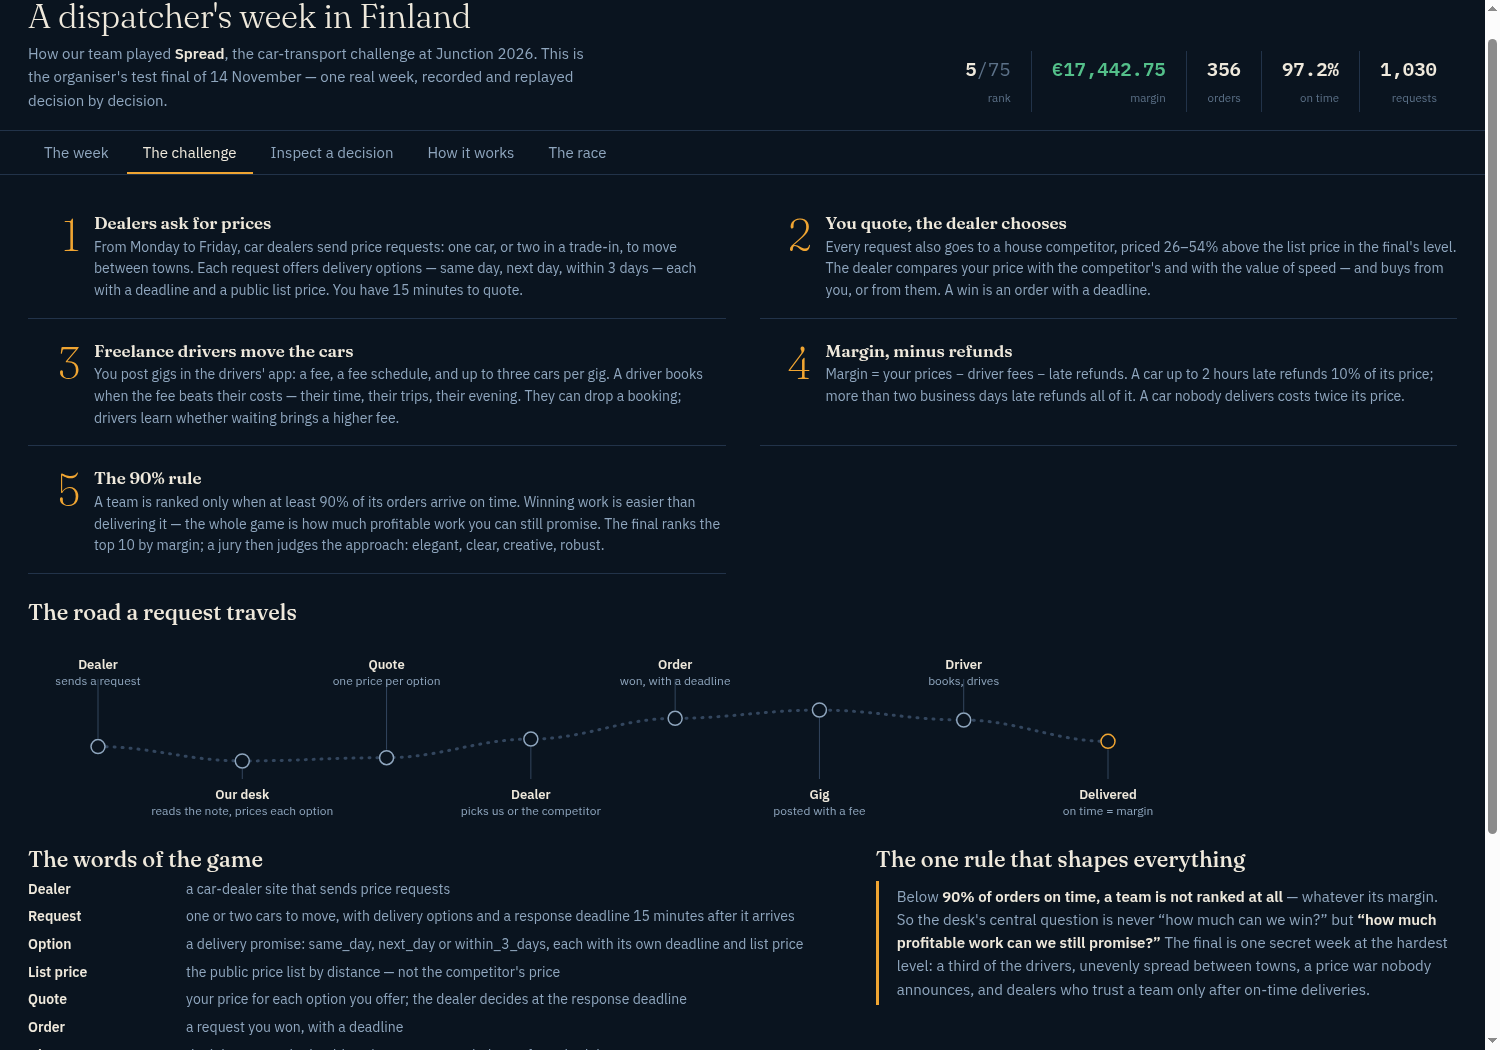
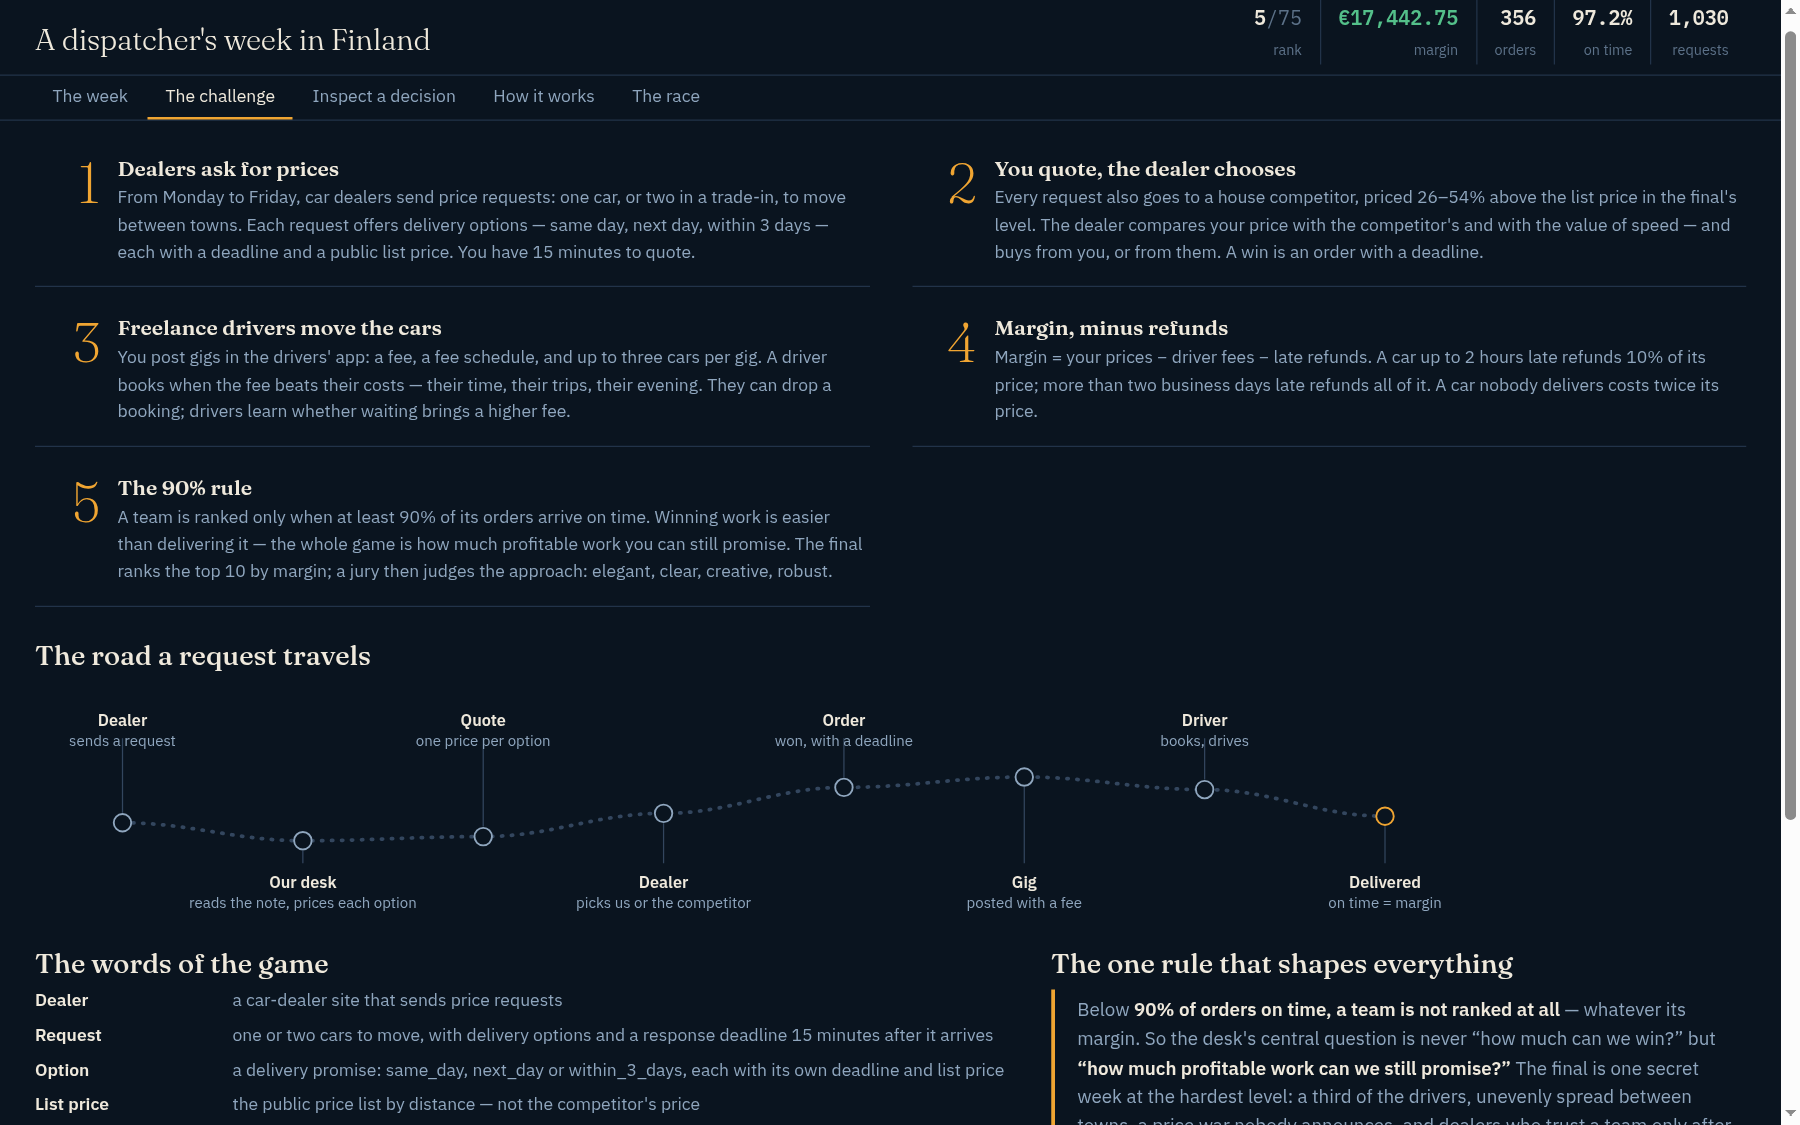
Demo polish: map fills the panel (viewport-height map, compact header on short viewports, timeline on screen at 1280x800); opens framed on southern/central Finland with Fit for the whole country; ranked label collision handling with halo; guided tour pans/zooms to each moment and highlights its lane

diff --git a/demo/demo.js b/demo/demo.js
@@ -104,8 +104,17 @@ function makeProjection() {
   const LAT0 = 59.6, LAT1 = 70.4, LON0 = 20.3, LON1 = 31.9;
   const kmLat = 111, kmLon = 111 * Math.cos(65 * Math.PI / 180);
   const W = (LON1 - LON0) * kmLon, H = (LAT1 - LAT0) * kmLat;
-  return { f: (lat, lon) => [(lon - LON0) * kmLon, (LAT1 - lat) * kmLat], W, H };
+  return {
+    f: (lat, lon) => [(lon - LON0) * kmLon, (LAT1 - lat) * kmLat],
+    // the map view (viewBox) for a lat/lon box: [south lat, north lat, west lon, east lon]
+    box: (lat0, lat1, lon0, lon1) => ({
+      x: (lon0 - LON0) * kmLon, y: (LAT1 - lat1) * kmLat,
+      w: (lon1 - lon0) * kmLon, h: (lat1 - lat0) * kmLat }),
+    W, H,
+  };
 }
+// the opening view: southern and central Finland, where the week's work is; Fit shows all
+function defaultView() { return proj.box(59.7, 66.4, 21.2, 30.6); }
 function ll(id) { const q = MAP.places.find((x) => x.id === id); return [q.lat, q.lon]; }
 
 const MINOR = new Set(["espoo", "vantaa", "raisio", "lempaala", "porvoo", "salo", "rauma", "hyvinkaa", "kouvola", "ylivieska"]);
@@ -120,7 +129,7 @@ const week = {
 
 function buildWeek() {
   proj = makeProjection();
-  week.view = { x: 0, y: 0, w: proj.W, h: proj.H };
+  week.view = defaultView();
   week.reqByAt = WEEK.requests.map((r) => [r.at, r]).sort((a, b) => a[0] - b[0]);
   week.wonByAt = WEEK.won.slice().sort((a, b) => a[0] - b[0]);
   week.lostByAt = WEEK.lost.slice().sort((a, b) => a[0] - b[0]);
@@ -165,6 +174,7 @@ function buildWeek() {
   week.feedAt = feed.map((e) => [e.at]);
   week.eventMinutes = [...new Set(feed.map((e) => e.at))];
   drawMapBase();
+  applyView();
   buildTimeline();
   wireControls();
   setTime(OPEN_MIN);
@@ -212,22 +222,41 @@ function drawMapBase() {
 }
 
 function layoutTowns() {
-  // towns and labels, sized to stay readable at any zoom; minor labels only when zoomed in
+  // towns and labels, sized to stay readable at any zoom; a label that would overlap a
+  // higher-ranked label at this zoom is hidden, so the busy south stays legible
   const g = week.townG;
   g.textContent = "";
-  const zoomed = week.view.w < proj.W * 0.55;
-  MAP.places.forEach((p) => {
+  const svg = $("#map");
+  const s = Math.min(svg.clientWidth / week.view.w, svg.clientHeight / week.view.h);
+  const ox = (svg.clientWidth - week.view.w * s) / 2, oy = (svg.clientHeight - week.view.h * s) / 2;
+  const sx = (mx) => ox + (mx - week.view.x) * s, sy = (my) => oy + (my - week.view.y) * s;
+  const shown = [];
+  const order = MAP.places.slice().sort((a, b) => townRank(b.id) - townRank(a.id));
+  for (const p of order) {
     const [x, y] = proj.f(p.lat, p.lon);
     const minor = MINOR.has(p.id);
-    if (minor && !zoomed) {
-      g.appendChild(svgEl("circle", { cx: x, cy: y, r: u(minor ? 3.5 : 4.5), fill: "#7D97C2" }));
-      return;
-    }
-    g.appendChild(svgEl("circle", { cx: x, cy: y, r: u(minor ? 4 : 5.5), fill: "#93AECB" }));
-    const t = svgEl("text", { x: x + u(9), y: y + u(4), "font-size": u(minor ? 12 : 14), class: minor ? "" : "major" });
+    g.appendChild(svgEl("circle", { cx: x, cy: y, r: u(minor ? 3.5 : 4.5), fill: minor ? "#7D97C2" : "#93AECB" }));
+    const fs = minor ? 12 : 14;
+    const lx = sx(x) + 9, ly = sy(y) - fs * 0.32;
+    const lw = p.name.length * fs * 0.56 + 3, lh = fs;
+    const rect = { x: lx - 2, y: ly - lh * 0.8, w: lw + 4, h: lh + 3 };
+    if (shown.some((r) => rect.x < r.x + r.w && r.x < rect.x + rect.w && rect.y < r.y + r.h && r.y < rect.y + rect.h))
+      continue;   // a bigger or busier town's label is already there
+    shown.push(rect);
+    const t = svgEl("text", { x: x + u(9), y: y + u(4.5), "font-size": u(fs), class: minor ? "" : "major",
+      stroke: "rgba(7,14,24,.85)", "stroke-width": u(3), "paint-order": "stroke" });
     t.textContent = p.name;
     g.appendChild(t);
-  });
+  }
+}
+function townRank(id) {
+  if (!week.townReq) {
+    week.townReq = {};
+    WEEK.requests.forEach((r) => { week.townReq[r.p] = (week.townReq[r.p] || 0) + 1; week.townReq[r.d] = (week.townReq[r.d] || 0) + 1; });
+  }
+  const BIG = { helsinki: 400, tampere: 260, turku: 240, oulu: 220, jyvaskyla: 180, kuopio: 180,
+                rovaniemi: 170, lahti: 170, pori: 160, vaasa: 160, joensuu: 160 };
+  return (BIG[id] || 0) + (MINOR.has(id) ? 0 : 60) + (week.townReq[id] || 0);
 }
 
 function applyView() {
@@ -329,9 +358,10 @@ function renderWeek() {
     g.markers.appendChild(c);
   });
   if (week.hl && Date.now() < week.hl.until) {
-    g.routes.appendChild(svgEl("polyline", { points: week.hl.pts.map((p) => p.join(",")).join(" "),
-      fill: "none", stroke: "#F0A532", "stroke-width": 2.5, "stroke-dasharray": "2 6",
-      "stroke-linecap": "round", "vector-effect": "non-scaling-stroke" }));
+    for (const pts of week.hl.polys)
+      g.routes.appendChild(svgEl("polyline", { points: pts.map((p) => p.join(",")).join(" "),
+        fill: "none", stroke: "#F0A532", "stroke-width": 2.5, "stroke-dasharray": "2 6",
+        "stroke-linecap": "round", "vector-effect": "non-scaling-stroke" }));
   } else week.hl = null;
 
   const k = bisect(week.ledgerCum, t);
@@ -372,6 +402,35 @@ function feedLine(e) {
   return "";
 }
 
+function lanePts(rid) {
+  const r = WEEK.reqMap[rid];
+  const move = WEEK.moves.find((m) => m.rid === rid);
+  return move ? week.seg.get(WEEK.moves.indexOf(move)).pts : [proj.f(...ll(r.p)), proj.f(...ll(r.d))];
+}
+// the map view that frames a request's lane, with room around it
+function laneView(rids) {
+  let lat0 = 90, lat1 = 0, lon0 = 90, lon1 = 0;
+  rids.forEach((rid) => {
+    const r = WEEK.reqMap[rid];
+    [[r.p], [r.d]].flat().forEach((id) => {
+      const p = MAP.places.find((q) => q.id === id);
+      lat0 = Math.min(lat0, p.lat); lat1 = Math.max(lat1, p.lat);
+      lon0 = Math.min(lon0, p.lon); lon1 = Math.max(lon1, p.lon);
+    });
+  });
+  const pad = Math.max(0.45, (lat1 - lat0) * 0.25, (lon1 - lon0) * 0.25);
+  lat0 -= pad; lat1 += pad; lon0 -= pad; lon1 += pad;
+  // keep the frame from becoming a thin sliver on nearly north-south lanes
+  const kmLat = 111, kmLon = 111 * Math.cos(65 * Math.PI / 180);
+  const hKm = (lat1 - lat0) * kmLat, wKm = (lon1 - lon0) * kmLon;
+  if (wKm < hKm * 0.45) {
+    const lonMid = (lon0 + lon1) / 2, half = hKm * 0.45 / 2 / kmLon;
+    lon0 = lonMid - half; lon1 = lonMid + half;
+  }
+  return proj.box(lat0, lat1, lon0, lon1);
+}
+function flyTo(view) { week.view = { ...view }; applyView(); }
+
 function openRequest(rid) {
   showTab("decision");
   selectRequest(rid);
@@ -380,9 +439,7 @@ function showOnMap(rid) {
   const r = WEEK.reqMap[rid];
   showTab("week");
   setTime(r.at);
-  const move = WEEK.moves.find((m) => m.rid === rid);
-  const pts = move ? week.seg.get(WEEK.moves.indexOf(move)).pts : [proj.f(...ll(r.p)), proj.f(...ll(r.d))];
-  week.hl = { pts, until: Date.now() + 12000 };
+  week.hl = { polys: [lanePts(rid)], until: Date.now() + 12000 };
   renderWeek();
 }
 
@@ -543,22 +600,24 @@ function startTour() {
     .sort((a, b) => (b.de - WEEK.deadline[b.rid]) - (a.de - WEEK.deadline[a.rid]))[0];
   const lateMin = Math.round((lateMove.de - WEEK.deadline[lateMove.rid]) / 60);
   const first = WEEK.requests[0];
+  const firstRid = WEEK.won[0][1];
+  const bundleRids = WEEK.gigOrders[bundle[1]];
   tour.steps = [
-    { t: 510, title: "Monday, 08:30",
+    { t: 510, title: "Monday, 08:30", view: defaultView(),
       text: "The desk is open. From 09:00 dealers across Finland will start asking for prices; every amber ring is a request that gives us fifteen minutes to quote." },
-    { t: first.at, title: `The first request, ${first.id}`,
+    { t: first.at, title: `The first request, ${first.id}`, view: laneView([first.id]), hl: [first.id],
       text: `${nameOf[first.p]} to ${nameOf[first.d]}, ${DEC[first.id].km} km. We quoted ${Object.entries(DEC[first.id].quote).map(([k, v]) => `${fmtEur(v)} for ${k.replace(/_/g, " ")}`).join(" and ")} — and lost it to the competitor. A loss teaches the quoter's level to step down.` },
-    { t: WEEK.won[0][0], title: `The first win, ${WEEK.won[0][1]}`,
-      text: `At ${fmtEur(DEC[WEEK.won[0][1]].won.price)} the dealer chose us. The gig opens at what the cost model expects the car to cost, and a driver books within minutes — watch the blue car leave ${nameOf[WEEK.reqMap[WEEK.won[0][1]].p]}.` },
-    { t: bundle[0], title: "A bundle",
-      text: `${WEEK.gigOrders[bundle[1]].join(" and ")} share one gig: when two or three cars fit a route, they travel together at 0.85 of the sum of their fees — one trip for the driver, less paid by us.` },
-    { t: 2880, title: "Wednesday: the price war",
+    { t: WEEK.won[0][0], title: `The first win, ${firstRid}`, view: laneView([firstRid]), hl: [firstRid],
+      text: `At ${fmtEur(DEC[firstRid].won.price)} the dealer chose us. The gig opens at what the cost model expects the car to cost, and a driver books within minutes — watch the blue car leave ${nameOf[WEEK.reqMap[firstRid].p]}.` },
+    { t: bundle[0], title: "A bundle", view: laneView(bundleRids), hl: bundleRids,
+      text: `${bundleRids.join(" and ")} share one gig: when two or three cars fit a route, they travel together at 0.85 of the sum of their fees — one trip for the driver, less paid by us.` },
+    { t: 2880, title: "Wednesday: the price war", view: defaultView(),
       text: "Nobody announces it, but today the competitor quotes 20% under its usual prices. We won 23% of Wednesday's requests, against 48% on Thursday — the quoter's level spends the day stepping down." },
-    { t: 3620, title: "Wednesday noon: the bulk order",
+    { t: 3620, title: "Wednesday noon: the bulk order", view: proj.box(59.95, 60.75, 24.15, 25.55),
       text: "A dealer group sends 30 cars from one yard in Vantaa. The intake's queue is near its limit of 35 unbooked orders, so we quote only the cars the flood screen says stay on time. We won 4 of the 30." },
-    { t: lateMove.de - 30, rid: lateMove.rid, title: `A late car, ${lateMove.rid}`,
+    { t: lateMove.de - 30, rid: lateMove.rid, title: `A late car, ${lateMove.rid}`, view: laneView([lateMove.rid]), hl: [lateMove.rid],
       text: `${lateMin} minutes late: the dealer gets part of its price back and its trust count halves. Ten of our 356 orders ran late; 97.2% arrived on time — above the 90% the ranking demands.` },
-    { t: END, title: "The end of the week",
+    { t: END, title: "The end of the week", view: defaultView(),
       text: "€17,442.75 of margin, 356 orders, 97.2% on time: 5th of 75 teams. The gap to the top was about 110 short cars — the fee floors priced them out. The fix went in the same evening; it is in the How it works tab." },
   ];
   tour.i = 0;
@@ -569,6 +628,9 @@ function startTour() {
 function showTourStep() {
   const s = tour.steps[tour.i];
   setTime(s.t);
+  if (s.view) flyTo(s.view);
+  week.hl = s.hl ? { polys: s.hl.map(lanePts), until: Infinity } : null;
+  renderWeek();
   $("#tourTitle").textContent = `${s.title}`;
   $("#tourText").textContent = s.text;
   $("#tourStep").textContent = `${tour.i + 1} / ${tour.steps.length}`;
@@ -584,7 +646,12 @@ function showTourStep() {
     $(".tourctrl").insertBefore(b, $("#tourStep"));
   }
 }
-function endTour() { $("#tourbox").hidden = true; }
+function endTour() {
+  $("#tourbox").hidden = true;
+  week.hl = null;
+  flyTo(defaultView());
+  renderWeek();
+}
 
 function wireTour() {
   $("#tourNext").addEventListener("click", () => {

diff --git a/demo/style.css b/demo/style.css
@@ -28,7 +28,7 @@
 }
 
 :root {
-  --map-h: 590px;         /* the map's height; the side rail matches it */
+  --map-h: clamp(420px, calc(100vh - 300px), 780px);  /* the map's height; the side rail matches it */
   --night: #0A141F;      /* polar night — page ground */
   --land: #142A44;       /* kartta land */
   --sea: #0C1A2C;        /* the map's water */
@@ -98,7 +98,7 @@ footer { border-top: 1px solid var(--rule); color: var(--faint); font-size: 12.5
 .weekgrid { display: grid; grid-template-columns: minmax(0, 1fr) 300px; gap: 18px; }
 .mapwrap { position: relative; margin: 0; background:
   radial-gradient(120% 90% at 50% 38%, var(--sea) 0%, var(--night) 88%);
-  border: 1px solid var(--rule); border-radius: 6px; overflow: hidden; min-height: 560px; }
+  border: 1px solid var(--rule); border-radius: 6px; overflow: hidden; }
 #map { width: 100%; height: var(--map-h); display: block; cursor: grab; }
 #map.panning { cursor: grabbing; }
 #map text { font-family: var(--sans); fill: var(--frost); user-select: none; }
@@ -112,7 +112,7 @@ footer { border-top: 1px solid var(--rule); color: var(--faint); font-size: 12.5
 .k.req { background: var(--headlight); } .k.won { background: var(--ontime); }
 .k.car { background: #7FB4E8; } .k.done { background: var(--ontime); opacity: .45; } .k.late { background: var(--late); }
 
-.hint, .tourbox { position: absolute; left: 14px; top: 14px; max-width: 400px; background: rgba(10,20,31,.94);
+.hint, .tourbox { position: absolute; left: 14px; top: 14px; max-width: 340px; background: rgba(10,20,31,.94);
   border: 1px solid var(--rule); border-left: 3px solid var(--headlight); border-radius: 4px; padding: 14px 16px; }
 .hint p, .tourbox p { margin: 4px 0; font-size: 13.5px; color: var(--frost); }
 .hint p:first-child { color: var(--birch); }
@@ -309,6 +309,21 @@ table.rej td.lose { color: var(--late); font-family: var(--mono); font-size: 12p
   .weekgrid, .decgrid, .twocol, .racecharts { grid-template-columns: 1fr; }
   .steps #steps { grid-template-columns: 1fr; }
   .part { grid-template-columns: 1fr; gap: 4px; }
-  :root { --map-h: 520px; } .mapwrap { min-height: 480px; }
+  :root { --map-h: 440px; }
   h1 { font-size: 27px; }
+}
+
+
+/* short viewports: tighten the page so a tall map and the timeline both stay on screen */
+@media (max-height: 980px) {
+  header { padding: 10px 28px 8px; }
+  h1 { font-size: 24px; }
+  .sub { display: none; }   /* a mid-word ellipsis reads as broken; the title stands alone here */
+  .manifest b { font-size: 16px; }
+  .manifest div { padding: 2px 14px; }
+  nav button { padding: 6px 14px 5px; font-size: 14px; }
+  main { padding-top: 10px; }
+  #tab-week { padding-bottom: 10px; }
+  #tab-week .note { display: none; }
+  #tline { height: 88px; }
 }

diff --git a/demo/README.md b/demo/README.md
@@ -25,6 +25,7 @@ Opening `index.html` over `file://` does not work (the page fetches its JSON, wh
 browsers block on `file://`). Tabs link directly with a hash: `#week`, `#challenge`,
 `#decision`, `#system`, `#race`; `#week@3720` opens the map at world minute 3720.
 
+The map sizes itself to the viewport, so the timeline stays on screen at 1280×800.
 The page opens on **The week** at Monday 09:30, with a dismissible hint. Keyboard,
 on the week tab: `←`/`→` step one event, `shift`+`←`/`→` one hour, `ctrl`/`alt`+`←`/`→`
 one day, `space` plays or pauses.
@@ -40,10 +41,14 @@ one day, `space` plays or pauses.
    (requests and wins), amber markers for the story moments (the Wednesday price
    war, the bulk order, each late car) — drag it, click a marker, click a day.
    **Scrubbing is first-class**: every view is a pure function of the minute, so
-   stepping, jumping and dragging backwards render the exact state. Zoom with the
-   wheel or buttons, drag to pan, **Fit** restores the country; minor town labels
-   appear as you zoom in. The **guided tour** walks eight annotated moments, from
-   the first request to the final score.
+   stepping, jumping and dragging backwards render the exact state. The map opens
+   framed on southern and central Finland, where the week's work is; **Fit** shows
+   the whole country, and the wheel or buttons zoom, drag pans. Town labels are
+   ranked (big cities, then busyness) and any label that would overlap a
+   higher-ranked one at the current zoom hides, so the busy south stays legible.
+   The **guided tour** walks eight annotated moments — each one pans and zooms the
+   map to its place and highlights the lanes it talks about — from the first
+   request to the final score.
 2. **The challenge** — the game in five steps, the road a request travels, the
    vocabulary, and the 90% rule.
 3. **Inspect a decision** — every one of the 1,030 requests, filterable (won,
@@ -123,7 +128,7 @@ and writes `demo/assets/{map,week,decisions,race,settings}.json` (~0.8 MB total)
 | `assets/race.json` | the leaderboard race, us vs the top team |
 | `assets/story.json` | hand-written explainer and system content |
 | `DESIGN.md` | the design plan and its review against the generic defaults |
-| `screenshots/` | headless-browser captures of the five views plus the tour (`before/` = the first build) |
+| `screenshots/` | browser captures: the five views plus the tour at 1440×900, and the week at 1280×800 (`before/` = the first build) |
 
 ## Known limitations
 
